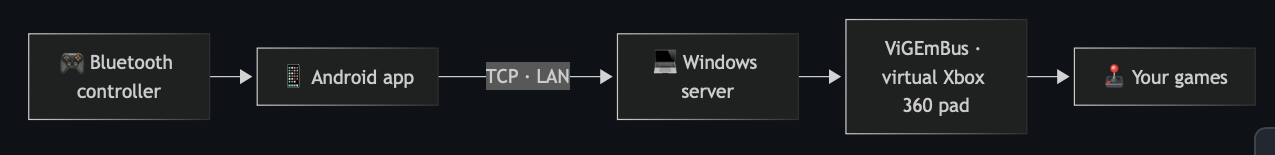
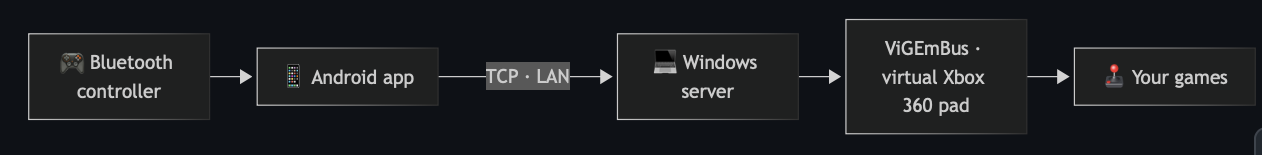
Captura real de NX2 Port Studio

diff --git a/index.html b/index.html
@@ -251,7 +251,7 @@
       id: 'nx2', name: 'NX2 Port Studio', x: 92, y: 12, color: ['#7f1d1d', '#ef4444'], glyph: '⬡',
       title: 'NX2 Port Studio', type: 'Apple silicon · C · Experimental · GPL-3.0',
       intro: 'Herramientas nativas experimentales para Switch 2 en Apple silicon, construidas a partir de NX Port Studio, nxnative y Eden NX2.',
-      art: 'grid',
+      hero: [{ src: 'images/nx2/studio.png', caption: 'NX2 Port Studio: importación de dumps, recursos del sistema y funciones actuales', wide: true }],
       repo: 'NX2-Port-Studio',
       sections: [
         { heading: 'Estado (0.3.0)', list: [
